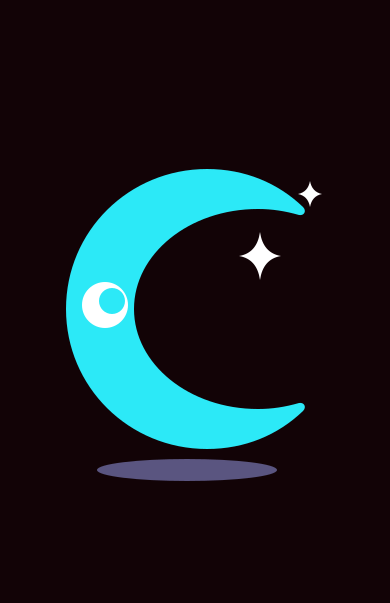
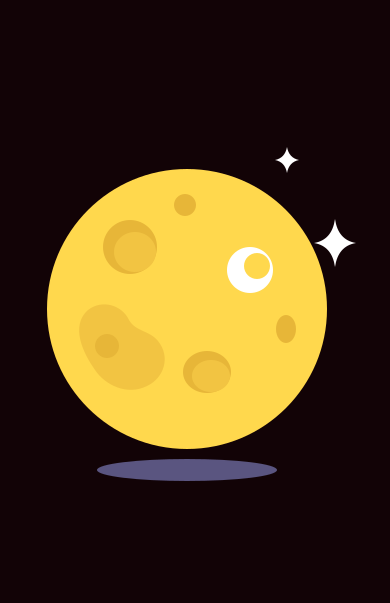
Put the home screen outside at night
It was a white page with characters standing on nothing. Now a horizon
runs across 55% of the height — which is where the megaphone's eyes
already sit (measured: 52~57% at 390x844) — with deep navy above it and
green field below. One gradient on the frame, not two stacked layers,
because a seam between layers becomes a third band.

The warm floor gradient comes off the home. Over a green field it read
as a separate strip and cut the ground in two; the ground is now the
field itself, running unbroken behind both buttons to the bottom edge.

Red concentrates where it means something: the wordmark, the megaphone,
the filled button. Everything that guides is neutral, graded by
brightness — the invitation in warm white, the wordmark red beneath it,
the subtitle in pale slate, the drifting lines dimmest. '써봤어요' takes
a light neutral fill so it does not float as a white card on the night.

The invitation is '당신의 한마디를 / 벽에 띄워보세요' and it no longer
rides the character. It used to track the silhouette and bob along with
it; a single word could take that, a sentence to be read cannot. It now
hangs on the frame itself through a portal, pinned between the subtitle
and the character — 22% down on all of 360x640, 390x844 and 430x932,
which stays clear of a subtitle that always ends inside 20%. The
drifting background lines skip the lanes that would cross it.

Onlookers walk the field rather than the sky: their feet start at 57%
[…]

Changed region(s): [[0.1231, 0.2388, 0.9231, 0.7463]]

diff --git a/src/styles/app.css b/src/styles/app.css
@@ -254,11 +254,21 @@
 
 /* ─── 홈: 인사말, 캐릭터, 시작 선택 ─── */
 
+/* ── 홈은 밤하늘 아래 들판이다 ───────────────────────────────────────
+   지평선은 화면 높이의 55%다. 거기가 메가폰트의 눈이 지나는 자리라
+   (재서 확인: 844 화면에서 눈이 52~57%, 55%는 464px), 인물이 지평선에
+   걸쳐 선 구도가 된다.
+
+   두 색은 한 칸의 배경 하나로 깐다 — 겹을 나누면 그 경계가 또 하나의
+   띠가 된다. 화면 가장자리까지, 버튼 뒤로도 그대로 간다. */
 .home-frame{
   position: relative;
   overflow: hidden;
   padding: 0;
   gap: 0;
+  background: linear-gradient(to bottom,
+    var(--night-sky) 0 var(--horizon, 55%),
+    var(--field) var(--horizon, 55%) 100%);
 }
 
 .home-layer{
@@ -1983,7 +1993,9 @@
    견본 넷 위로 덮이고 버튼 아래로 깔린다(스케치 02b의 칠 순서). */
 /* 홈과 소개 화면도 같은 기운을 받는다 — 다섯 단계에만 있으면 들어올 때와
    나갈 때만 바닥이 차가워서, 그 둘이 이 앱이 아닌 것처럼 읽힌다. */
-.home-frame::after,
+/* 홈은 이 목록에서 빠졌다(2026-09-20). 바닥에 더운 기운을 깔면 들판
+   위에 또 한 겹의 띠가 생겨, 이어져야 할 초록이 두 조각으로 갈린다.
+   홈의 바닥은 들판 그 자체다. */
 .tone-choice::after, .tone-adjust::after, .compose-screen::after,
 .write-screen::after, .color-choice::after, .preview-screen::after,
 .info-overlay::after{
@@ -2024,8 +2036,8 @@
 .compose-screen > .primary-action, .color-choice > .primary-action,
 .write-screen > .primary-action, .write-screen > .compose-count,
 .preview-screen > .primary-action{ position: relative; z-index: 2; }
-/* 홈의 두 버튼과 소개의 발치 줄은 그 기운 위에 앉는다 */
-.home-frame .home-gate, .info-overlay > .info-nav{ position: relative; z-index: 2; }
+/* 소개의 발치 줄은 그 기운 위에 앉는다 */
+.info-overlay > .info-nav{ position: relative; z-index: 2; }
 .tone-selected{ display: flex; align-items: center; justify-content: space-between; color: var(--body-text); font-size: var(--fs-body-s); }
 .tone-selected button{ border: 0; background: var(--grey-100); border-radius: var(--r-s); padding: var(--s3) var(--s5); min-height: 44px; color: var(--grey-700); font: inherit; cursor: pointer; }
 .tone-selected button:active{ background: var(--grey-200); }
@@ -2364,8 +2376,22 @@
    그 위로 두 겹이 더 있다: 바닥의 그라데이션(900)과 글자·버튼(1000).
    누르려는 손을 가리면 안 되므로 버튼이 맨 위다. */
 .home-char{ z-index: 500; }
-.home-frame::after{ z-index: 900; }
 .home-frame > .home-layer{ z-index: 1000; }
+
+/* ── 밤하늘 위의 글과 버튼 ───────────────────────────────────────────
+   흰 종이를 앞에 두고 짠 색들이라 밤에서는 다시 정한다. 빨강은 **로고와
+   캐릭터와 채움 버튼**에 모아 두고, 안내하는 글은 중성색으로 갈라 둔다 —
+   빨강이 여기저기 흩어지면 무엇이 중심인지가 없어진다.
+
+   밝기로 위계를 만든다:
+     참여 안내(--sky-warm) > 로고(빨강) > 부제(--sky-text) > 부유 메시지(--sky-drift) */
+.home-frame .home-headline{ color: var(--brand-main); }
+.home-frame .home-subtitle{ color: var(--sky-text); }
+
+/* '처음이에요'는 빨강 바탕에 흰 글자 — 이 화면에서 제일 큰 손짓이다.
+   '써봤어요'는 밝은 중성 바탕에 어두운 글자. 밤하늘 위에서 흰 판이
+   떠 보이지 않게 종이(--paper)가 아니라 한 단 내린 회색을 쓴다. */
+.home-frame .home-info-btn{ background: var(--grey-200); color: var(--grey-900); border-color: var(--grey-200); }
 
 /* ── 큰 메가폰트 ────────────────────────────────────────────────── */
 /* 직접 만지는 크기. 340px에서 80%로 줄였다. */
@@ -2433,15 +2459,30 @@
      제 높이만큼 끌어올리므로 글자 상자가 몸에 닿지 않는다.
      0.08이었는데 몸이 두둥실 오르내리는 만큼(±1.7%) 틈이 같이 좁아져
      제일 올라왔을 때 10px까지 붙었다. 0.11로 넓힌다. */
-  top: calc(var(--say-floor, 0px) - var(--char-box, 272px) * 0.11);
+
+  /* 밤하늘의 정해진 자리에 선다(2026-09-20).
+
+     전에는 캐릭터의 실루엣 윗변을 따라다니며 같이 두둥실했다. 캐릭터가
+     제자리에서 오르내리고 기우는 동안 글도 같이 흔들렸는데, 한 낱말짜리
+     인사일 때는 그게 생기였지만 **읽을 문장**이 되자 읽는 눈이 흔들리는
+     것을 쫓아야 했다. 이제 액자에 직접 걸려(HomeCharacter의 createPortal)
+     캐릭터가 무엇을 하든 여기 가만히 있다.
+
+     자리는 **부제와 캐릭터 사이**로 못 박는다. 지평선 아래(들판)로도,
+     로고 쪽으로도 가지 않는다. 지평선에 맞춰 아래에서 잡았더니 캐릭터
+     머리 위로 올라타서(844에서 43~51%, 캐릭터가 35%부터다), 부제 쪽에서
+     내려오는 것으로 바꿨다 — 부제가 끝나는 자리는 어느 화면에서나
+     20% 안쪽이다(844 16% · 640 20% · 932 16%). */
+  top: 22%;
+  z-index: 1100;
   /* 캐릭터 머리 위 **한가운데**에 선다(2026-09-20).
      전에는 마디마다 좌우로 번갈아 붙고 ±5도씩 기울었다. 마디가 짧은
      인사 셋일 때는 그 들쭉날쭉이 생기였는데, 두 줄짜리 문장이 되자
      읽는 눈이 매번 다른 데서 시작해야 했다. 읽을 것이 생기면 축이 하나여야
      한다. 가로로는 제 폭의 절반, 세로로는 제 높이만큼 끌어올린다 —
      두둥실(saySway)이 이 값을 물고 흔들므로 여기가 그 기준점이다. */
-  left: var(--say-x, 50%);
-  translate: -50% -100%;
+  left: 50%;
+  translate: -50% 0;
   text-align: center;
   /* 제 내용만큼만 넓다. 안 주면 상자가 오른쪽 끝까지 늘어나 pre-line이
      작가가 끊어 준 자리 말고 엉뚱한 데서도 줄을 바꾼다(두 줄이 세 줄이
@@ -2466,7 +2507,10 @@
   font-size: calc(var(--char-box, 272px) * 0.1);
   /* 두 줄이 되었으므로 줄 사이가 필요하다. 1은 줄끼리 붙는다. */
   line-height: 1.35;
-  color: var(--brand-main);
+  /* 참여 안내는 **따뜻한 흰색**이다. 밤하늘에서 제일 밝게 읽혀야 하는
+     글이라 — 로고(빨강)는 무엇인지를, 이 글은 무엇을 할 수 있는지를
+     말한다. 빨강으로 두면 로고와 같은 목소리가 된다. */
+  color: var(--sky-warm);
   /* 줄바꿈은 작가가 끊어 준 자리 그대로(HomeCharacter · WELCOME).
      화면 폭에 맡기면 뜻이 안 끊기는 데서 끊긴다. */
   white-space: pre-line;
@@ -2476,24 +2520,15 @@
      (charSay), 뒤는 글자가 서 있는 내내 돈다(saySway). */
   /* 뜨고 지는 시간은 그 마디가 떠 있는 시간이다. 1600ms로 박아 뒀더니
      2300ms짜리 마디가 다 읽히기도 전에 사라지고 700ms를 빈 채로 기다렸다. */
-  animation: charSay var(--say-life, 1600ms) var(--ease-standard) both,
-             saySway 5.2s ease-in-out infinite;
+  animation: charSay var(--say-life, 1600ms) var(--ease-standard) both;
 }
 /* 캐릭터와 같은 박자로 두둥실(5.2s · ±1.7%). 몸이 charFloat으로 오르내리는
    그 폭을 글자에도 같은 값으로 준다 — 글자만 제자리에 붙박여 있으면 몸은
    떠 있고 말은 벽에 붙은 것이 된다. 같은 위상이라 둘 사이의 틈이 늘 같다.
    translate는 transform과 따로 노는 속성이라 기울기(--say-tilt)를 안 덮는다. */
-/* 가로의 -50%를 여기서도 들고 있어야 한다. translate 한 속성이라
-   애니메이션이 도는 동안 위의 선언을 통째로 덮는다 — X를 빼먹었더니
-   글자가 가운데에 서지 않고 가운데선에서 오른쪽으로만 뻗었다. */
-@keyframes saySway {
-  0%, 100% { translate: -50% calc(-100% - var(--char-box, 272px) * 0.017); }
-  50%      { translate: -50% calc(-100% + var(--char-box, 272px) * 0.017); }
-}
-/* 가운데선에서 한쪽으로 뻗는다. 몸 위에 있으므로 옆으로는 겹칠 일이 없다. */
-/* 몸의 한가운데에서 좌우로 뻗는다. 상자 한가운데(50%)가 아니다 — 옆모습은
-   몸이 한쪽으로 쏠려 있어 그러면 글자가 몸에서 떨어진다(--say-x는
-   HomeCharacter가 실루엣에서 재어 내려준다). */
+/* 여기에 글자가 캐릭터와 같이 두둥실하는 결(saySway)이 있었다.
+   2026-09-20에 걷어냈다 — 안내가 캐릭터를 따라 흔들리면 안 된다. */
+
 /* 라틴만 900. 이 글자들은 Lineal이 그리므로 위의 환산이 필요 없다. */
 .home-char-say[data-latin='true']{ font-weight: 900; }
 /* '!'도 제 시간(BANG_MS)을 --say-life로 받는다 — 따로 적지 않는다. */
@@ -2541,10 +2576,14 @@
   /* 크기는 HomeVoices가 액자 폭에서 재어 인라인으로 준다 */
   font-size: 20px;
   line-height: 1;
-  /* 배경의 결이라 --brand-main(빨강)에서 내려왔다. 빨강은 이 화면에서
-     캐릭터와 채움 버튼의 색이다 — 배경까지 같은 빨강이면 무엇이 주인공
-     인지가 흐려진다. 깊이에 따른 짙기는 JS가 opacity로 얹는다. */
-  color: var(--grey-300);
+  /* 배경의 결이다. 빨강은 이 화면에서 캐릭터와 채움 버튼의 색이므로
+     배경까지 빨강이면 무엇이 주인공인지가 흐려진다.
+
+     밤하늘과 들판을 **둘 다 지난다.** 회청색 하나로 가는 이유가 그것이다 —
+     구간마다 색을 갈면 지평선을 넘는 순간 글자가 딴 것이 된다. 이 값은
+     남색 위에서도 초록 위에서도 밝은 쪽이라 양쪽에서 같은 만큼 읽힌다.
+     짙기는 깊이에 따라 JS가 opacity로 얹는다(HomeVoices). */
+  color: var(--sky-drift);
   white-space: nowrap;
   transform-origin: left center;
   will-change: transform, opacity;
@@ -2558,6 +2597,10 @@
    (HomeCrowd), 걷는 다리와 몸의 들썩임·몸 색만 CSS가 맡는다.
    버튼 위에 얹히지 않게 손을 안 받는다. */
 .home-crowd{ position: absolute; inset: 0; pointer-events: none; overflow: hidden; }
+/* 발밑 그림자는 들판 색을 따른다. 작가의 그림이 들고 온 보라(#5a5580)는
+   흰 바닥에 지는 그늘이라, 초록 위에서는 그것만 딴 데서 온 색이 된다. */
+.w-shade{ fill: var(--field-shade); }
+.home-char-shade{ background: var(--field-shade); }
 
 /* 여기에 앞선 구경꾼이 메가폰트 몸에 드리우는 그림자(drop-shadow)가
    있었다. 2026-09-20에 넣었다가 같은 날 걷어냈다 — 앞뒤는 발끝이 정하는

diff --git a/src/character/HomeCharacter.tsx b/src/character/HomeCharacter.tsx
@@ -1,4 +1,5 @@
 import { useEffect, useRef, useState } from 'react';
+import { createPortal } from 'react-dom';
 import {
   CANVAS, EYES, blendGeo, eyeMarkup, eyeOpacity, poseGeometry, toPathD, turnKind,
   type Eyes, type Pose, type PoseGeo
@@ -43,21 +44,23 @@ const POSE_DWELL = 900;
  * 272로 나누면 0.63 · 1.43 · 2.23. 그 폭을 그대로 쓴다.
  */
 /**
- * 처음 오는 사람에게 건네는 세 마디.
+ * 처음 오는 사람에게 건네는 두 마디.
  *
- * 2026-09-20까지는 '안녕하세요 · こんにちは · Hello' 셋이었다. 인사를 세
- * 나라 말로 하는 것은 이 물건이 누구에게나 열려 있다는 말이었지만, 그
- * 다음에 무엇을 해야 하는지는 끝내 말하지 않았다. 처음 여는 화면이
- * 할 일은 인사하고 **데려가는 것**이라 셋을 그 차례로 바꿨다.
+ * 인사 한 마디와 **할 수 있는 일** 한 마디다. 화면 위쪽의 부제가 이 물건이
+ * 무엇인지를 말하고(대학 내 공공발화를 위한 카트), 여기가 당신이 무엇을
+ * 할 수 있는지를 말한다 — 둘이 같은 말을 두 번 하지 않게 나눠 맡는다.
+ *
+ * 처음엔 셋이었고 마지막이 '아래 버튼을 눌러서…'였다. 버튼 둘이 바로
+ * 아래에 크게 서 있는데 그걸 누르라고 말로 이르는 것은 화면을 못 믿는
+ * 다는 뜻이라 뺐다.
  *
  * 줄바꿈은 작가가 끊어 준 자리다. 뜻이 끊기는 데서 끊는다 —
  * '메가폰트 웹에 오신 걸 / 환영합니다', '아래 버튼을 눌러서 / 발화를
  * 시작해보세요'. 자동 줄바꿈에 맡기면 화면 폭에 따라 엉뚱한 데서 끊긴다.
  */
 const WELCOME: Array<{ text: string; ms: number }> = [
-  { text: '안녕하세요.', ms: 1250 },
-  { text: '메가폰트 웹에 오신 걸\n환영합니다.', ms: 1900 },
-  { text: '아래 버튼을 눌러서,\n발화를 시작해보세요.', ms: 2300 }
+  { text: '안녕하세요.', ms: 1400 },
+  { text: '당신의 한마디를\n벽에 띄워보세요.', ms: 2600 }
 ];
 /** 다음 마디까지의 틈. 떠 있는 시간은 마디마다 다르다 — 길면 읽을 짬이 든다 */
 const WELCOME_GAP = 220;
@@ -135,6 +138,16 @@ export default function HomeCharacter() {
   } | null>(null);
   /** 찍히는 중인 글자를 프레임마다 적는 자리. React를 거치지 않는다 */
   const sayEl = useRef<HTMLSpanElement>(null);
+  /**
+   * 안내 문구를 **액자에 직접** 건다.
+   *
+   * 캐릭터 안에 두면 캐릭터가 움직이고 기울 때 같이 흔들린다 — 읽을 것이
+   * 생긴 이상 그러면 안 된다. 액자로 내보내면 캐릭터가 무엇을 하든 밤하늘
+   * 한 자리에 가만히 선다.
+   */
+  const [frame, setFrame] = useState<HTMLElement | null>(null);
+
+  useEffect(() => { setFrame((ref.current?.closest('.home-frame') as HTMLElement) ?? null); }, []);
 
   useEffect(() => {
     const el = ref.current!;
@@ -490,14 +503,13 @@ export default function HomeCharacter() {
       role="img"
       aria-label="메가폰트 캐릭터"
     >
-      {say && !matchMedia('(prefers-reduced-motion: reduce)').matches && (
+      {frame && say && !matchMedia('(prefers-reduced-motion: reduce)').matches && createPortal(
         /* 글자는 비워 둔다 — 찍는 쪽(rAF)이 프레임마다 채운다. 여기에
            {say.text}를 적어 두면 React가 다시 그릴 때마다 다 찍힌 글로
            되돌아간다. */
         <span className="home-char-say" aria-hidden="true" ref={sayEl}
           data-latin={isLatin(say.text) ? 'true' : undefined}
-          style={{ '--say-life': `${say.ms}ms` } as React.CSSProperties} />
-      )}
+          style={{ '--say-life': `${say.ms}ms` } as React.CSSProperties} />, frame)}
       {/* 떠 있다는 것은 그림자가 말한다. 몸보다 아래, 몸보다 작게. */}
       <span className="home-char-shade" aria-hidden="true" />
       <span className="home-char-motion" aria-hidden="true">

diff --git a/src/components/HomeVoices.tsx b/src/components/HomeVoices.tsx
@@ -104,6 +104,14 @@ export default function HomeVoices() {
        수치를 적어 두면 글자 크기가 바뀔 때 그 줄이 먼저 죽는다. 버튼과
        제목은 맨 위 층(1000)이라 거기까지 가면 도로 가려진다. */
     let band = { top: 0, height: 0 };
+    /**
+     * 비워 둘 자리 — **참여 안내**가 서는 곳이다.
+     *
+     * 읽어야 하는 글과 배경으로 흘러가는 글이 같은 높이에서 겹치면, 둘 다
+     * 안 읽힌다. 안내는 밤하늘의 정해진 자리에 붙박여 있으므로(app.css의
+     * .home-char-say) 그 칸을 통째로 비우고 위아래로만 흘린다.
+     */
+    let keep = { top: 0, bottom: 0 };
     const measure = () => {
       const f = frame.getBoundingClientRect();
       const sub = frame.querySelector('.home-subtitle')?.getBoundingClientRect();
@@ -111,6 +119,10 @@ export default function HomeVoices() {
       const top = (sub ? sub.bottom - f.top : f.height * 0.24) + f.height * GAP;
       const bottom = (gate ? gate.top - f.top : f.height * 0.82) - f.height * GAP;
       band = { top, height: Math.max(0, bottom - top) };
+      /* 안내는 지평선 위로 두 줄까지 선다. 그 높이를 실제로 재지 않고
+         칸으로 잡는 이유: 안내는 몇 초만 떠 있다가 사라지는데, 자리를
+         그때그때 재면 뜰 때마다 흐르는 줄이 비켜나 화면이 들썩인다. */
+      keep = { top: f.height * 0.2, bottom: f.height * 0.36 };
     };
     measure();
     window.addEventListener('resize', measure);
@@ -131,7 +143,15 @@ export default function HomeVoices() {
     const emit = (t: number, head = 0) => {
       const p = pool.find((v) => !v.live);
       if (!p) return;
-      const open = laneFree.map((free, i) => (free <= t ? i : -1)).filter((i) => i >= 0);
+      const lh = band.height / LANES;
+      const open = laneFree
+        .map((free, i) => (free <= t ? i : -1))
+        .filter((i) => i >= 0)
+        // 안내가 서는 칸은 건너뛴다
+        .filter((i) => {
+          const mid = band.top + (i + 0.5) * lh;
+          return mid < keep.top || mid > keep.bottom;
+        });
       if (!open.length) return;
       const lane = pick(open);
 
@@ -149,7 +169,6 @@ export default function HomeVoices() {
       p.el.textContent = pick(free.length ? free : VOICES);
 
       // 줄 한가운데에 앉히고, 줄 높이의 5분의 1만큼만 흔든다
-      const lh = band.height / LANES;
       p.y = band.top + lane * lh + (lh - px) / 2 + random(-lh, lh) * 0.1;
 
       // 왼쪽 밖에서 들어와 오른쪽 밖으로 나간다. 곧은 선이다.

diff --git a/src/styles/tokens.css b/src/styles/tokens.css
@@ -68,6 +68,21 @@
      같아야 한 겹으로 읽힌다. --ink(#000)로 깔았더니 두 검정이 갈렸다. */
   --night: #120306;
 
+  /* ─── 홈의 밤 ───────────────────────────────────────────────
+     홈은 **밤하늘 아래 초록 들판**이다. 지평선 위가 하늘, 아래가 들판.
+     빨강(캐릭터·로고·채움 버튼)과 하늘색(나팔)이 둘 다 그 위에 서야
+     하므로, 남색은 파랑 쪽으로 너무 가지 않고 초록은 노랑 쪽으로 너무
+     가지 않는 자리에서 골랐다. */
+  --night-sky: #16203f;
+  --field: #2c6047;
+  /* 밤하늘 위의 글. 셋이 서로 다른 일을 하므로 밝기가 셋 다 다르다:
+     참여 안내(따뜻한 흰색) > 로고 아래 설명(밝은 회청) > 배경의 부유 메시지 */
+  --sky-warm: #fff3e9;
+  --sky-text: #aab7d6;
+  --sky-drift: #6f7ea6;
+  /* 밤 아래에서는 발밑 그림자도 어둡다. 낮의 #5a5580보다 한 단 내린 값 */
+  --field-shade: rgb(12 30 22 / 42%);
+
   /* 눌린 상태. 브랜드 컨트롤은 brightness로 답하고, 중립 표면은 이 틴트. */
   --ink-press: #333333;
   --press-tint: rgba(0, 0, 0, 0.08);

diff --git a/src/character/HomeCrowd.tsx b/src/character/HomeCrowd.tsx
@@ -129,7 +129,9 @@ export default function HomeCrowd() {
          위 끝을 0.44에서 0.53으로 내렸다 — 그보다 높으면 발끝이 메가폰트의
          모자(하늘색) 높이에 오는데, 구경꾼도 하늘색이라 둘이 한 덩이로
          뭉쳐 보였다. 뒤에 서는 것은 좋지만 겹쳐 보이는 것은 다른 일이다. */
-      p.y = random(h * 0.53, h * 0.82);
+      /* 발끝이 **들판 위**에 놓여야 한다. 지평선이 화면의 55%라 그보다
+         위에 서면 하늘을 밟고 있는 것이 된다(전에는 53%부터였다). */
+      p.y = random(h * 0.57, h * 0.86);
       p.speed = random(SPEED.min, SPEED.max);
       p.phase = 'walk';
       p.beat = 0;
